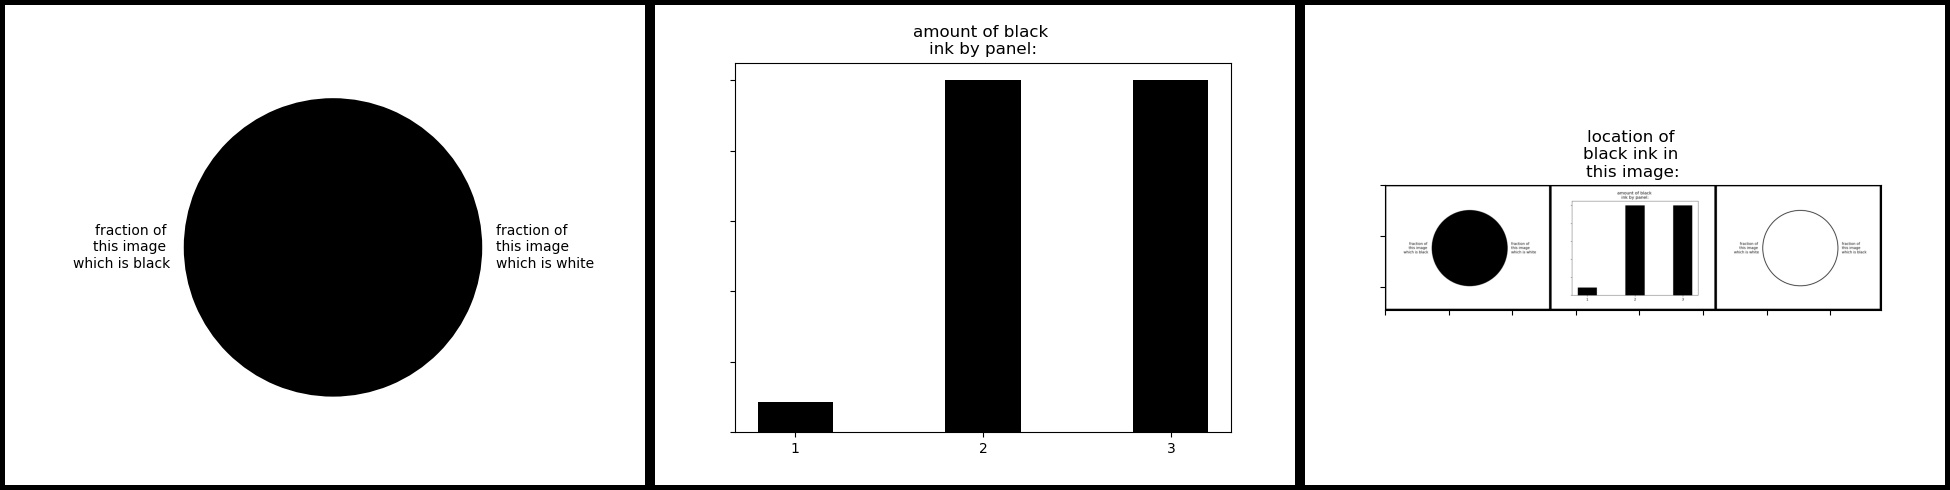
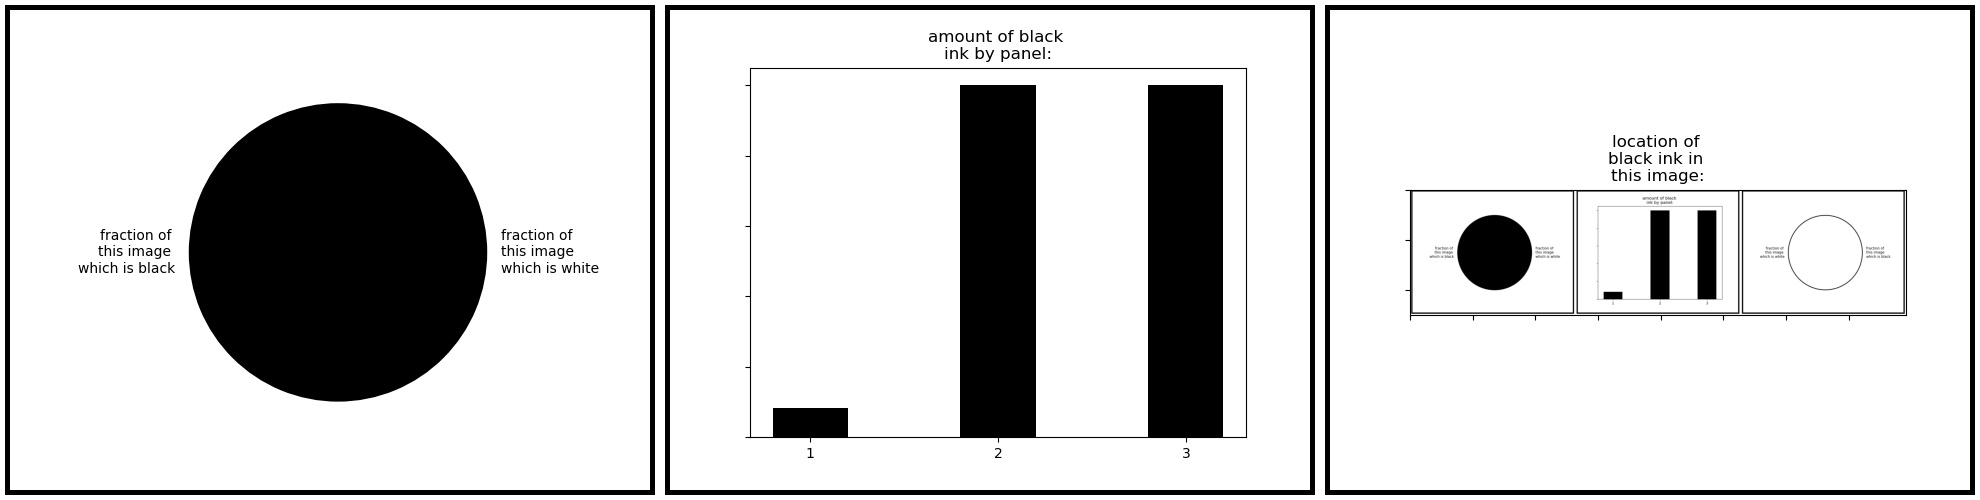
format tweaks

diff --git a/main.py b/main.py
@@ -1,26 +1,17 @@
 
-#define image sequence
-#define base images as empty squares
-#cyle through images calling functions for relevant type
-    #pass current image set
-    #call functions to analyse each image
-    #generate image based on returned data
-    #return new image
-#analyse image change
-#stop loop when change small or set cap on iterations
-
 import matplotlib.pyplot as plt
 import cv2
 import numpy as np
 
 def BGR (RGB_colour):
+    #convert RGB to BGR
     BGR_colour = [RGB_colour[2],RGB_colour[1],RGB_colour[0]]
 
     return BGR_colour
 
-def analyse_colour_percent(image,colour_filter):
-    
-    diff = 10
+def analyse_colour_ratio(image,colour_filter):
+    #based on BGR colour definition
+    diff = 10 #modify for match strictness
 
     lower = (BGR(colour_filter))
     upper = (BGR(colour_filter))
@@ -37,7 +28,7 @@ def analyse_colour_percent(image,colour_filter):
     ratio_colour = cv2.countNonZero(imask)/(image.size)
     #colourPercent = (ratio_colour * 100)
     #print(ratio_colour)
-    #print('black pixel percentage:', np.round(colourPercent, 2))
+    #print('colour pixel percentage:', np.round(colourPercent, 2))
 
     return ratio_colour
 
@@ -48,10 +39,8 @@ def pie_chart(black_ratio):
     wedgeprops = {'edgecolor':'black','linestyle':'-','linewidth': 2}
     fig, ax = plt.subplots()
     ax.pie(chart_values, colors = chart_colours,wedgeprops = wedgeprops,labels = chart_labels)
-    #plt.show()
+
     fig.canvas.draw()
-    #buf = fig.canvas.tostring_rgb()
-    #ncols, nrows = fig.canvas.get_width_height()
     image = np.frombuffer(fig.canvas.tostring_rgb(), dtype=np.uint8)
     image  = image.reshape(fig.canvas.get_width_height()[::-1] + (3,))
     image = cv2.cvtColor(image,cv2.COLOR_RGB2BGR)
@@ -69,8 +58,8 @@ def bar_chart(black_ratios):
     ax.bar(x_values,chart_values,color = 'black',width=0.4, tick_label=tick_labels)
     ax.axes.yaxis.set_ticklabels([])
     ax.set_title('amount of black \nink by panel:')
+    
     fig.canvas.draw()
-
     image = np.frombuffer(fig.canvas.tostring_rgb(), dtype=np.uint8)
     image  = image.reshape(fig.canvas.get_width_height()[::-1] + (3,))
     image = cv2.cvtColor(image,cv2.COLOR_RGB2BGR)
@@ -91,7 +80,6 @@ def x_y_chart(base_image):
     ax.set_title('location of \nblack ink in \nthis image:')
 
     fig.canvas.draw()
-
     image = np.frombuffer(fig.canvas.tostring_rgb(), dtype=np.uint8)
     image  = image.reshape(fig.canvas.get_width_height()[::-1] + (3,))
     image = cv2.cvtColor(image,cv2.COLOR_RGB2BGR)
@@ -103,13 +91,20 @@ def x_y_chart(base_image):
 
 def combine_images(image_one,image_two,image_three):
 
+    #assumes images have same height, would need to be more robust for more varied input images
     combined_image = np.concatenate((image_one, image_two,image_three), axis=1)
     return combined_image
 
 def add_border(image):
+    #add black border 5 wide
     border_width = 5
     border_colour = [00, 00, 00]
     output_image = cv2.copyMakeBorder(image, border_width, border_width, border_width, border_width, cv2.BORDER_CONSTANT, value=border_colour)
+
+    #add white border
+    border_colour = [255, 255, 255]
+    output_image = cv2.copyMakeBorder(output_image, border_width, border_width, border_width, border_width, cv2.BORDER_CONSTANT, value=border_colour)
+
     return output_image
 
 
@@ -117,27 +112,28 @@ if __name__ == "__main__":
 
     colour_filter = [00, 00, 00]  # RGB for black
 
+    #initialisation values for first charts
     ratio = 1
-    ratio_delta = 1
-
     bar_ratios = [1,1,1]
+
+    ratio_delta = 1
     bar_ratio_delta= [1,1,1]
     new_bar_ratios = bar_ratios
 
-    image_three = pie_chart(0) # placeholder for image 3
+    image_three = pie_chart(0) # placeholder for image 3 as it is self referential and first version needs a placeholder to function.
     image_three = add_border(image_three)
 
     i=1
-    while abs(ratio_delta) > 0.0001:
+    while abs(ratio_delta) > 0.00001: #stop when ratio change is less than 0.001% Note that visible pie chart in panel 3 is effectively 3 iterations old so relatively strict threshold required
         image_one = pie_chart(ratio)
         image_one = add_border(image_one)
-        new_bar_ratios[0] = analyse_colour_percent(image_one,colour_filter)
+        new_bar_ratios[0] = analyse_colour_ratio(image_one,colour_filter)
         bar_ratio_delta[0] = new_bar_ratios[0]-bar_ratios[0]
         bar_ratios = new_bar_ratios
 
         image_two = bar_chart(bar_ratios)
         image_two = add_border(image_two)
-        new_bar_ratios[1] = analyse_colour_percent(image_two,colour_filter)
+        new_bar_ratios[1] = analyse_colour_ratio(image_two,colour_filter)
         bar_ratio_delta[1] = new_bar_ratios[1]-bar_ratios[1]
         bar_ratios = new_bar_ratios
 
@@ -145,21 +141,24 @@ if __name__ == "__main__":
 
         image_three = x_y_chart(image)
         image_three = add_border(image_three)        
-        new_bar_ratios[2] = analyse_colour_percent(image_three,colour_filter)
+        new_bar_ratios[2] = analyse_colour_ratio(image_three,colour_filter)
         bar_ratio_delta[2] = new_bar_ratios[2]-bar_ratios[2]
         bar_ratios = new_bar_ratios
 
         image = combine_images(image_one,image_two,image_three)
-        new_ratio = analyse_colour_percent(image,colour_filter)
+        new_ratio = analyse_colour_ratio(image,colour_filter)
         ratio_delta = new_ratio-ratio
         ratio = new_ratio
 
         print(np.round(ratio_delta,4))
-        print(np.round(bar_ratio_delta,4))
+        #print(np.round(bar_ratio_delta,4))
 
         save_loc = r'output\outfile'+str(i)+'.jpg'
         cv2.imwrite(save_loc,image)
         i=i+1
+
+    save_loc = r'output\final.jpg'    
+    cv2.imwrite(save_loc,image)
 
 
     
